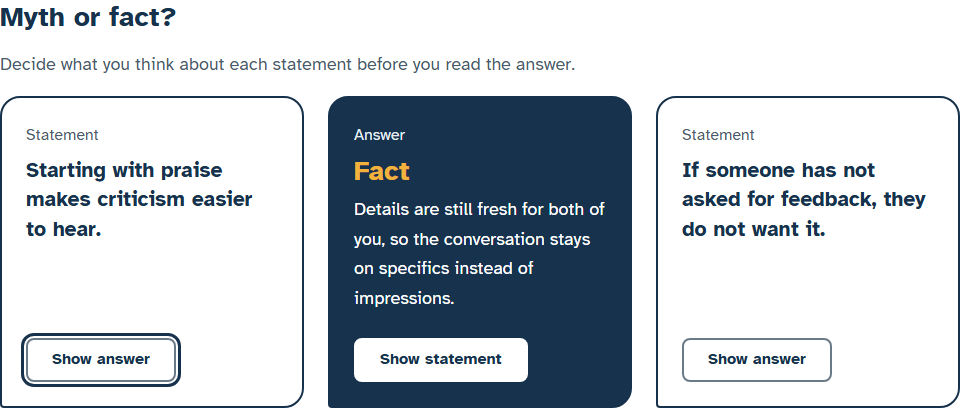
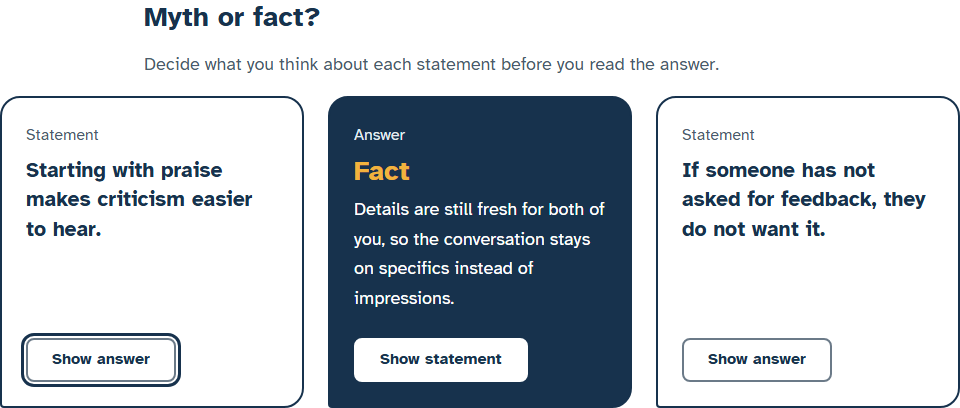
Stabilise test runs and avoid an orphan flip card
- Firefox project runs two workers after one crash with four
- mutation-proof.js passes one command string to the shell
- Flip cards use one column, then three from 48em, so 768px no longer
  wraps two cards plus one
- Regenerated screenshots

Changed region(s): [[0.0, 0.1471, 0.75, 0.1765], [0.0, 0.0, 0.3438, 0.0882]]

diff --git a/playwright.config.js b/playwright.config.js
@@ -16,7 +16,9 @@ module.exports = defineConfig({
   },
   projects: [
     { name: 'chromium', use: { ...devices['Desktop Chrome'], viewport: { width: 1280, height: 900 } } },
-    { name: 'firefox', use: { ...devices['Desktop Firefox'], viewport: { width: 1280, height: 900 } } },
+    // Firefox on the Windows test machine crashed once (0xC0000409) with four
+    // parallel workers, so it runs two at a time.
+    { name: 'firefox', workers: 2, use: { ...devices['Desktop Firefox'], viewport: { width: 1280, height: 900 } } },
     // The WebKit build for Windows stalls when several pages run at once on
     // one machine, so its tests run one at a time.
     { name: 'webkit', workers: 1, use: { ...devices['Desktop Safari'], viewport: { width: 1280, height: 900 } } }

diff --git a/css/lesson.css b/css/lesson.css
@@ -742,9 +742,10 @@
 }
 
 /* Flip cards: the only cards on the page, shaped like speech bubbles. */
+/* One column, then three: a 2 + 1 wrap would leave an orphan card. */
 .cnx-lesson .cnx-flips {
   display: grid;
-  grid-template-columns: repeat(auto-fit, minmax(min(100%, 16rem), 1fr));
+  grid-template-columns: minmax(0, 1fr);
   gap: var(--cnx-space-5);
   padding: 0;
   list-style: none;
@@ -752,6 +753,12 @@
 
 .cnx-lesson .cnx-flips > li + li {
   margin-top: 0;
+}
+
+@media (min-width: 48em) {
+  .cnx-lesson .cnx-flips {
+    grid-template-columns: repeat(3, minmax(0, 1fr));
+  }
 }
 
 .cnx-lesson .cnx-flip {

diff --git a/test/mutation-proof.js b/test/mutation-proof.js
@@ -61,7 +61,7 @@ for (const m of mutations) {
   }
   try {
     fs.writeFileSync(file, original.replace(m.find, m.replace));
-    const run = spawnSync('npx', ['playwright', 'test', '--project=chromium', '--reporter=line', m.spec],
+    const run = spawnSync('npx playwright test --project=chromium --reporter=line ' + m.spec,
       { cwd: root, encoding: 'utf8', shell: true });
     const failed = (run.stdout.match(/(\d+) failed/) || [0, 0])[1];
     results.push({ name: m.name, spec: m.spec, outcome: run.status !== 0 ? 'caught' : 'NOT CAUGHT', failedTests: Number(failed) });

diff --git a/README.md b/README.md
@@ -87,6 +87,7 @@ npm test
 Notes from the test machine (Windows 11):
 
 - The WebKit build for Windows stalls when several pages run at once, so the WebKit project runs with one worker.
+- Firefox crashed once with four parallel workers (Windows error 0xC0000409), so the Firefox project runs with two.
 - WebKit leaves links out of the Tab order unless the "Press Tab to highlight each item" setting is on. The Tab order test accepts that platform difference and checks the rest of the order.
 - If Playwright's Firefox fails to start on Windows with a "side-by-side configuration" error, reinstalling the browsers into a fresh folder set by `PLAYWRIGHT_BROWSERS_PATH` fixed it.
 
